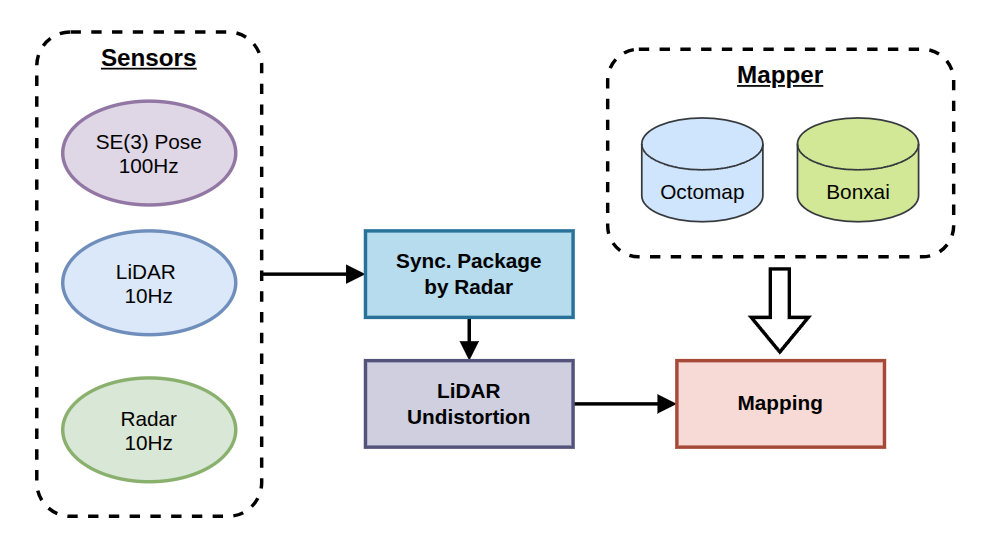
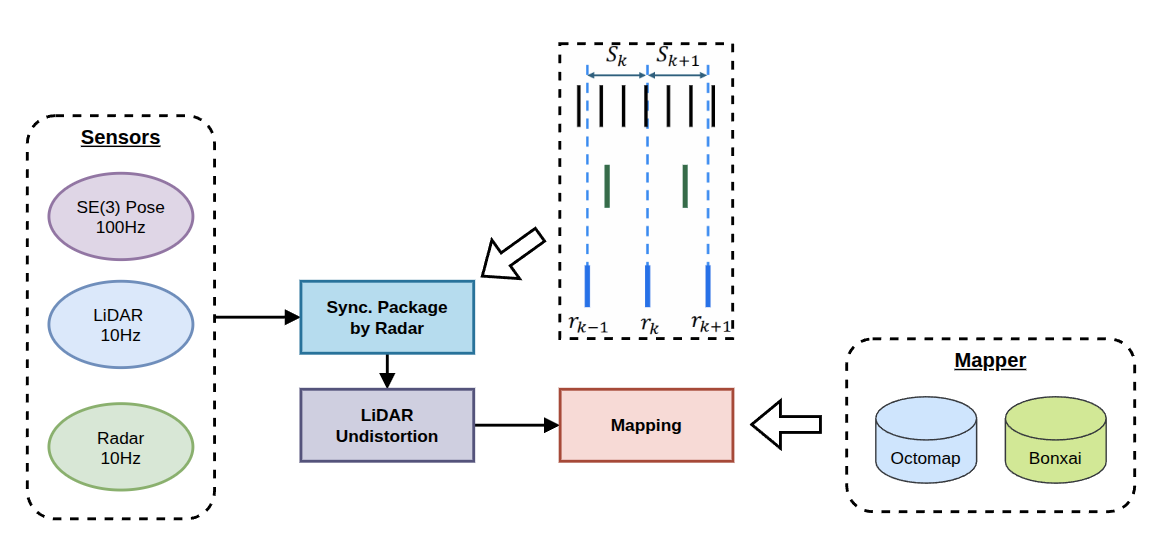
update readme

diff --git a/README.md b/README.md
@@ -2,7 +2,7 @@
 
 ***Mapping package for "AgriLiRa4D: A Multi-Sensor UAV Dataset for Robust SLAM in Challenging Agricultural Fields".***
 
-<img src="imgs/Pipeline.png" style="zoom:67%;" />
+<img src="imgs/Pipeline.png" style="zoom:70%;" />
 
 **Supported Platforms**
 
